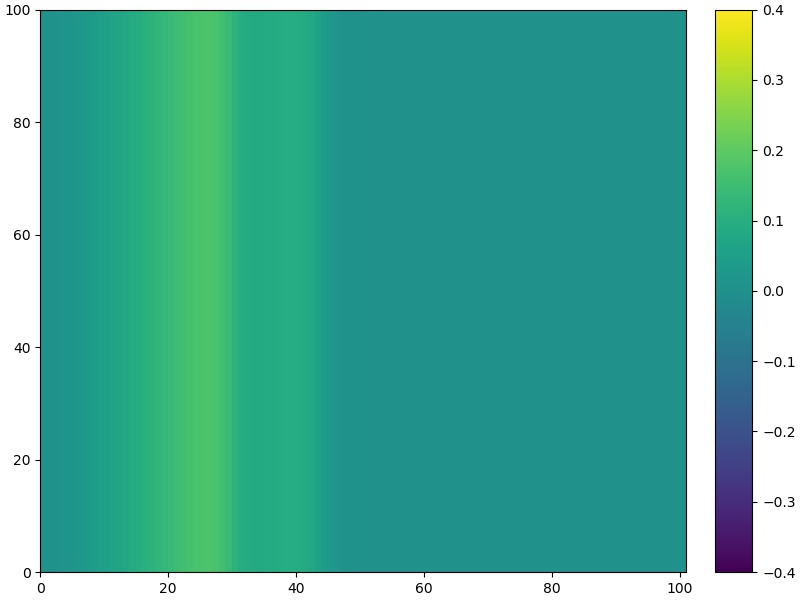
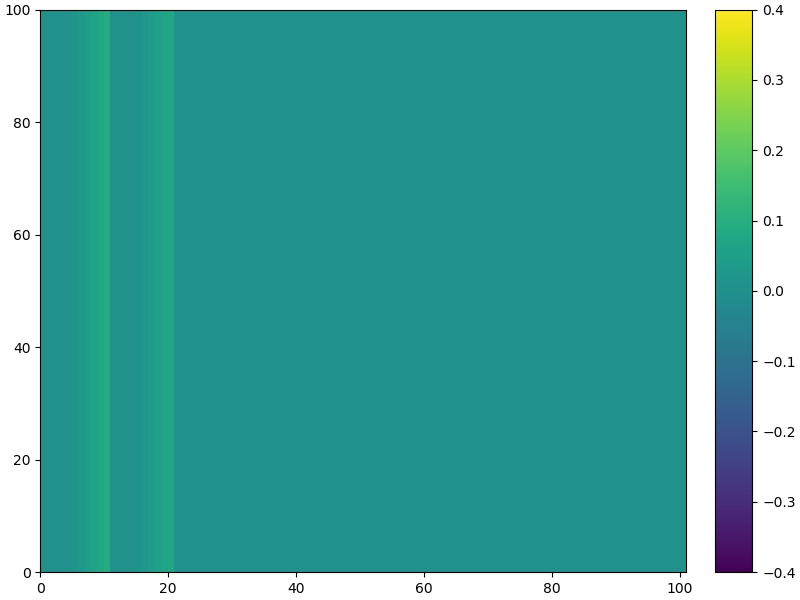
Changed Setup of waveChase

Changed region(s): [[0.1562, 0.0, 0.4062, 0.96]]

diff --git a/custom_apps/test_suit/test_suit.py b/custom_apps/test_suit/test_suit.py
@@ -981,7 +981,12 @@ data = []
 for y in range(0, RESOLUTION[0] + 1):
     next = []
     for x in range(0, RESOLUTION[0] + 1):
-        u = 0.2 * EXP0 ** -((2*(0.0625*x-1))**2) + 0.1 * EXP0 ** -((2*(0.0625*(x-18)-1))**2)
+        #u = 0.2 * EXP0 ** -((2*(0.0625*x-1))**2) + 0.1 * EXP0 ** -((2*(0.0625*(x-18)-1))**2)
+        u = 0.0
+        if(x >= 5 and x <= 10):
+            u = 0.3
+        elif(x >= 15 and x <= 20):
+            u = 0.1
         next.append([0.0, u])
     data.append(next)
 velocity_array = np.array([data], dtype="float32")
